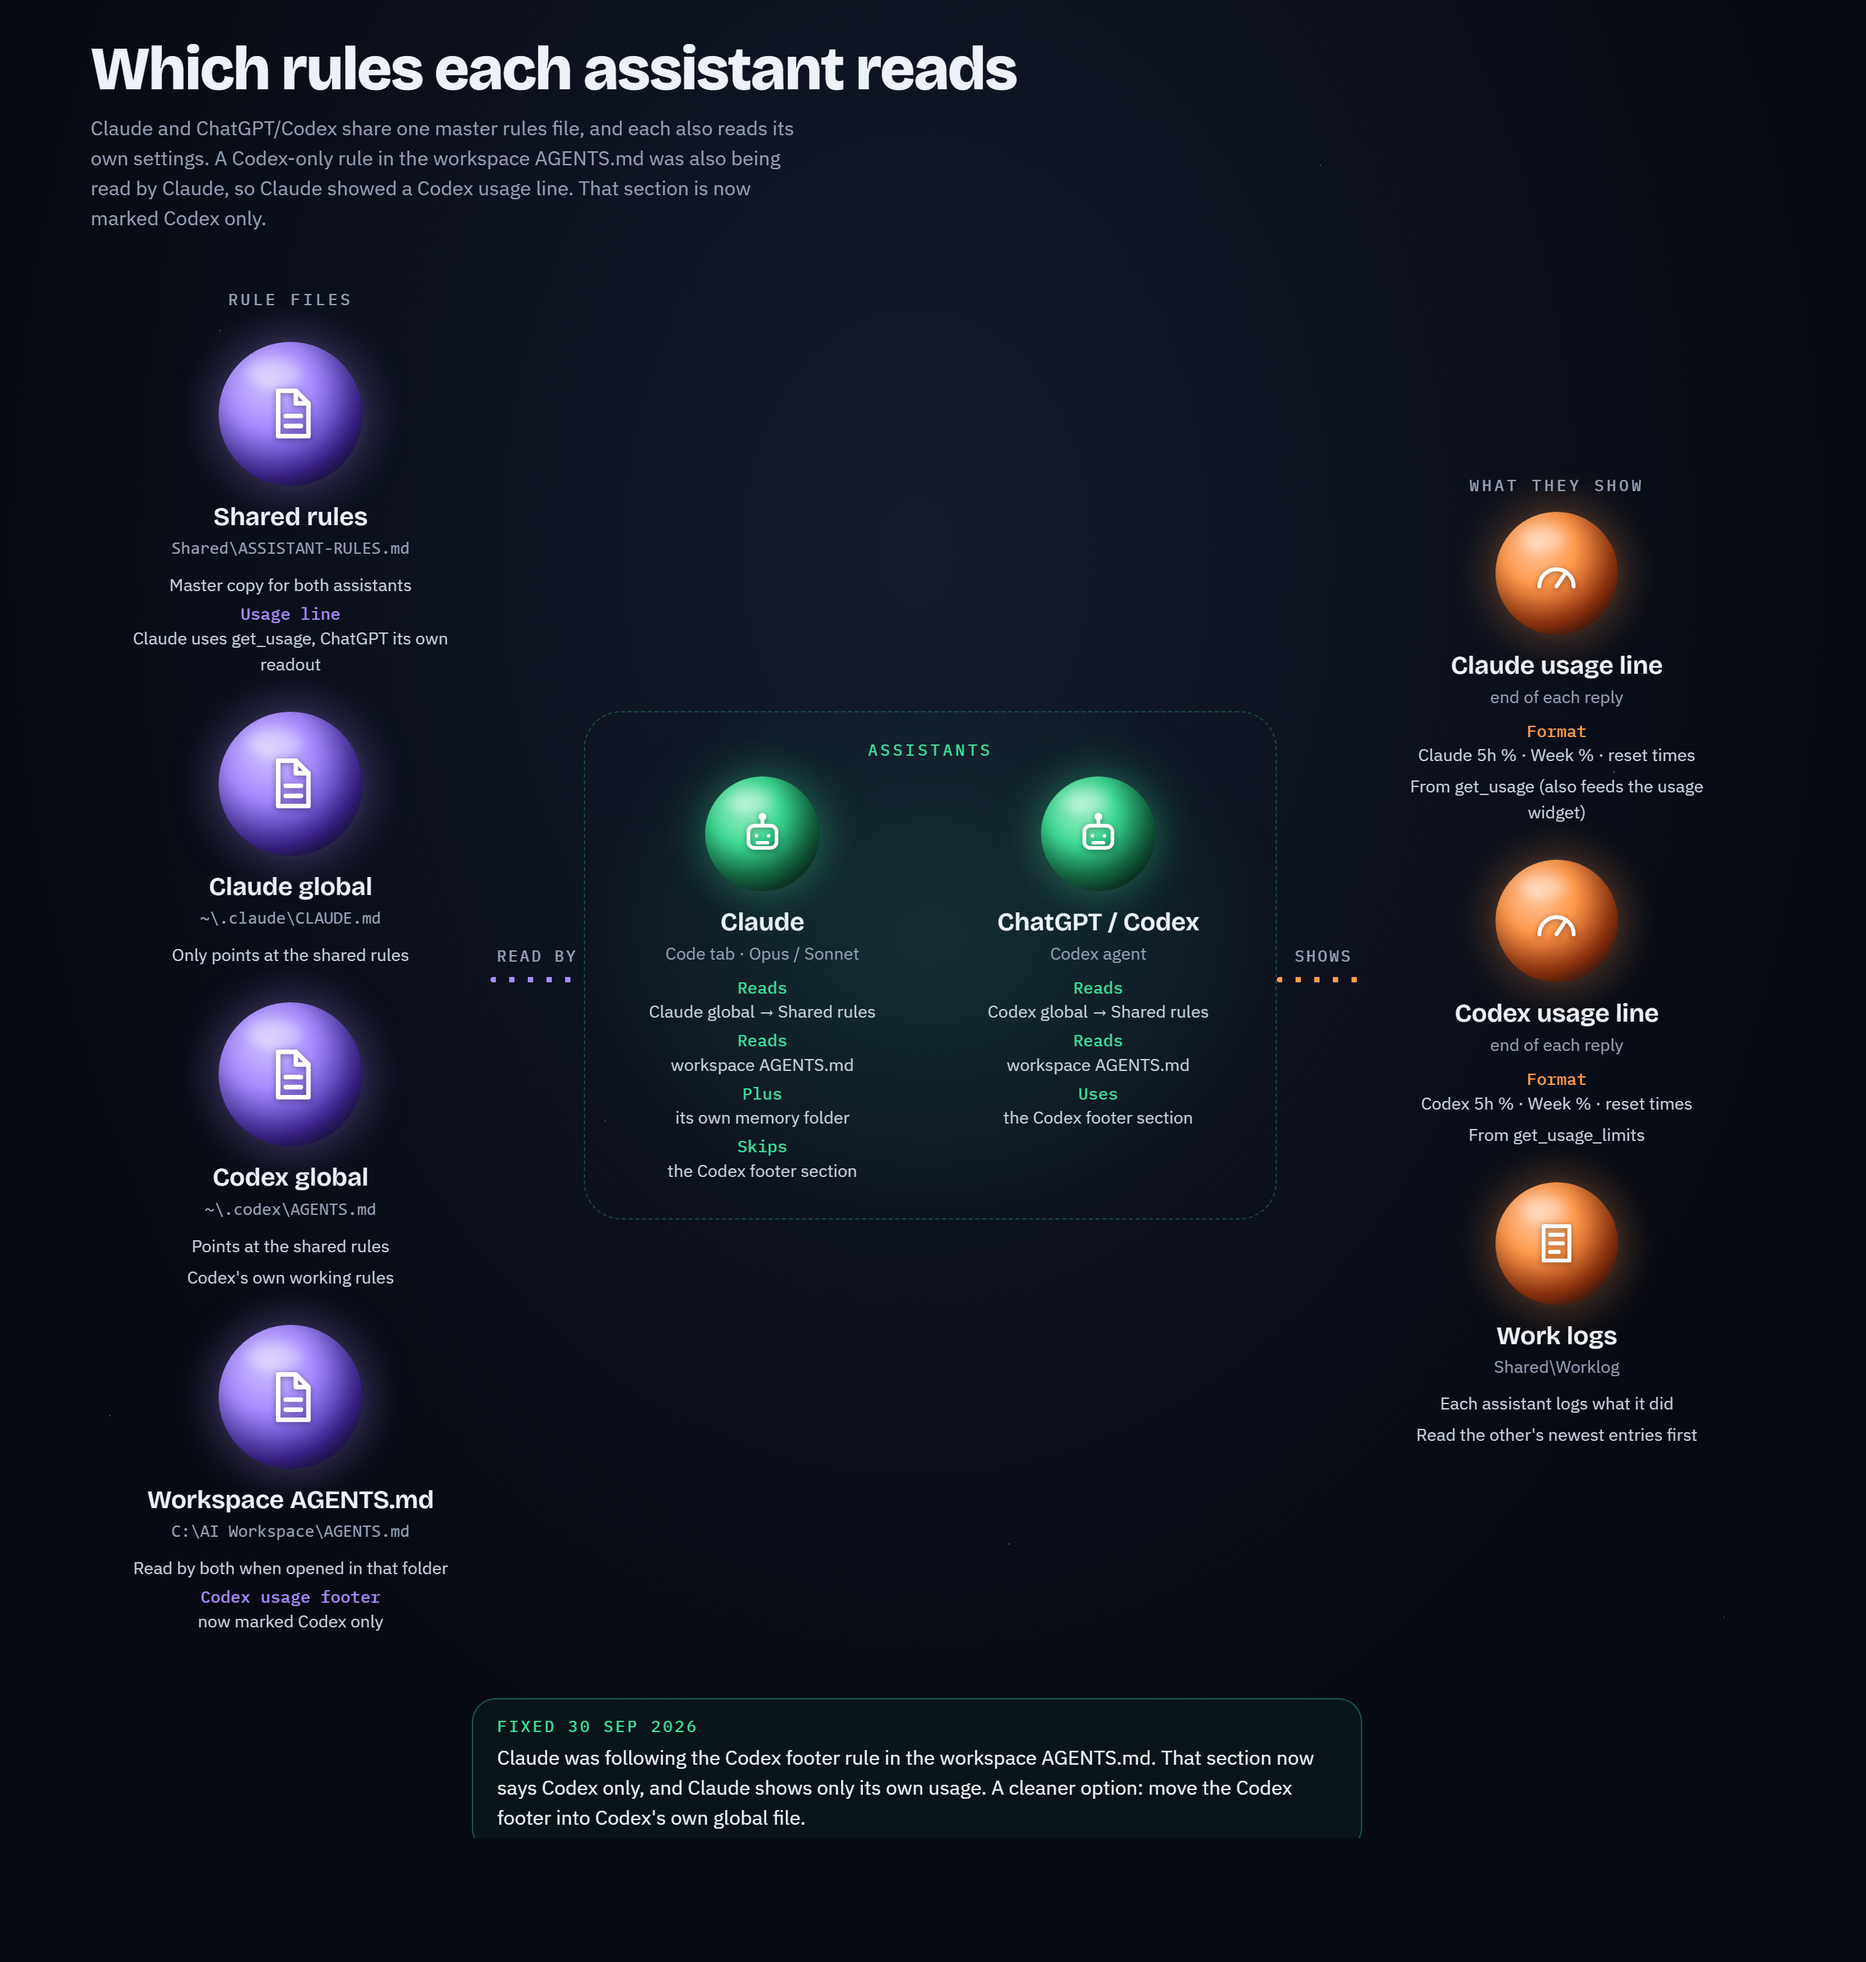
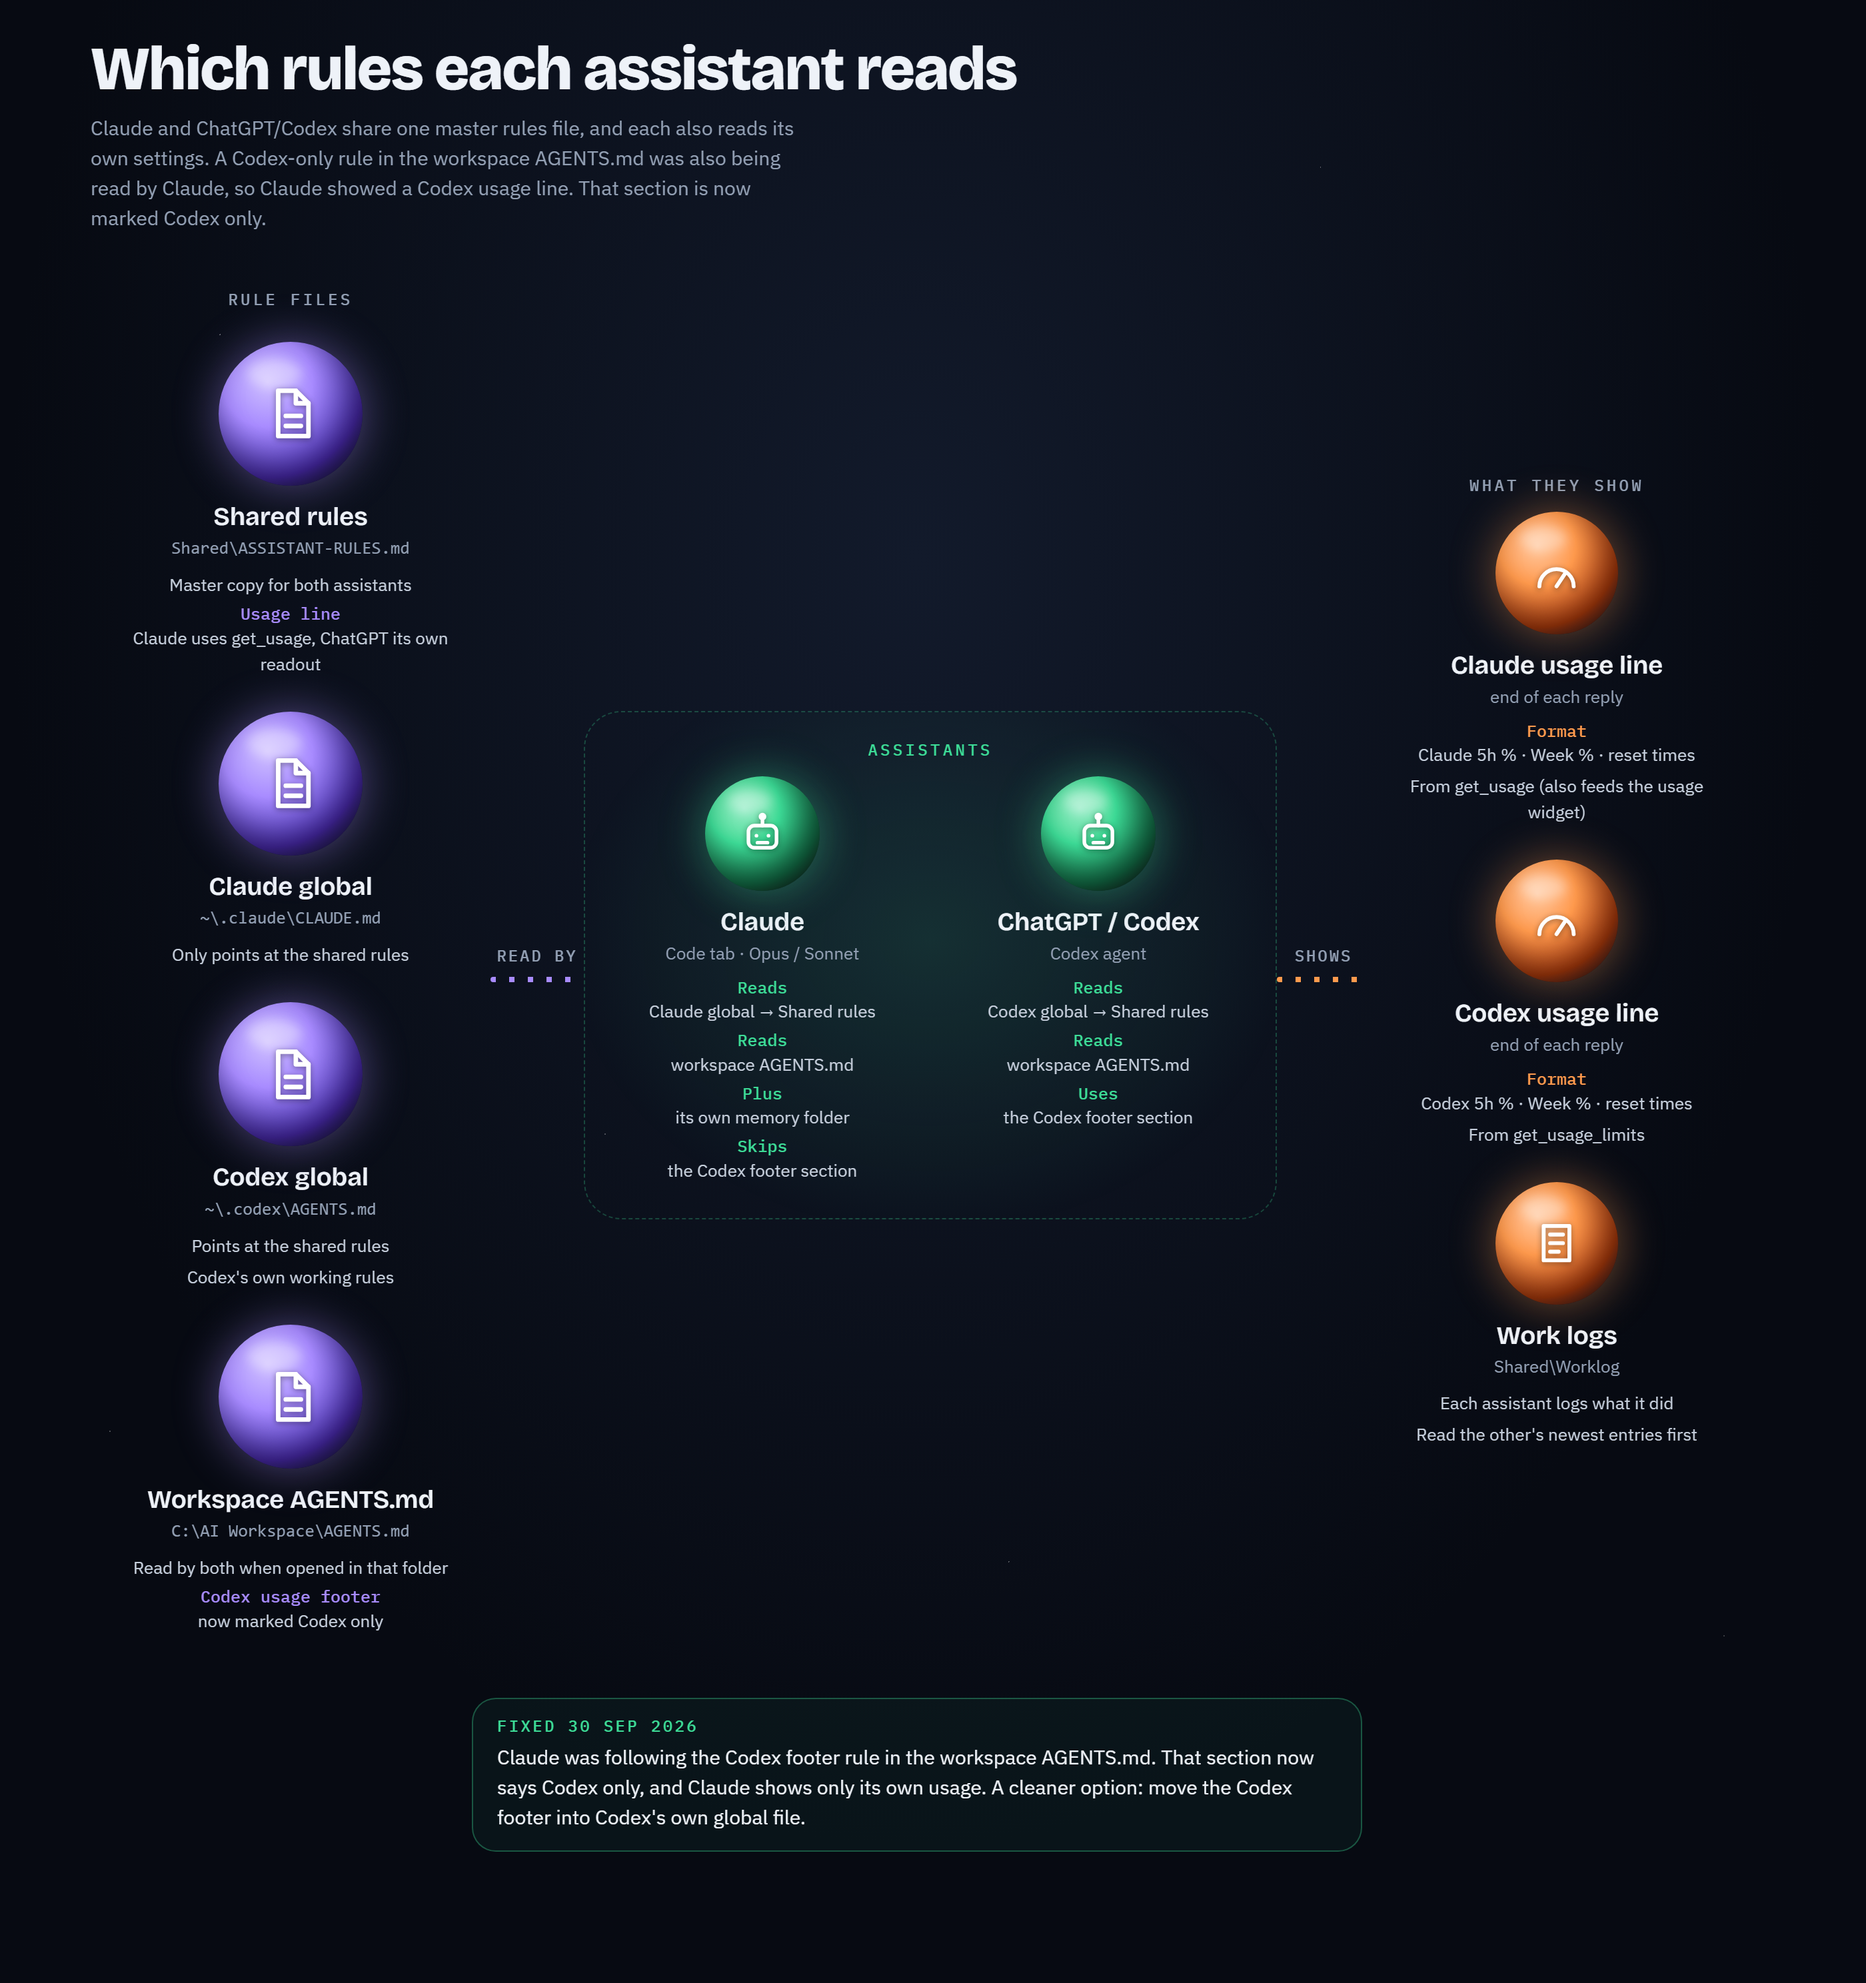
Obsidian canvas embeds the live page (PNG kept as offline copy); fix snapshot crop

diff --git a/tools/snapshot_obsidian.py b/tools/snapshot_obsidian.py
@@ -1,4 +1,4 @@
-"""Makes the Obsidian copy of a diagram: a 2x snapshot of its desktop page, shown on a canvas with a link to the live page.
+"""Makes the Obsidian copy of a diagram: a canvas that embeds the live desktop page, plus a PNG snapshot as the offline copy.
 Usage: python tools/snapshot_obsidian.py <folder-name> "<Obsidian title>"
   e.g. python tools/snapshot_obsidian.py assistant-rules "Assistant rules"
 Writes Shared\\Maps\\<title>.png + .canvas (home PC vault) and diagrams/<folder>/<folder>.png + .canvas (repo vault).
@@ -8,6 +8,7 @@ REPO = pathlib.Path(__file__).resolve().parents[1]
 MAPS = pathlib.Path(r"C:\AI Workspace\Shared\Maps")
 EDGE = r"C:\Program Files (x86)\Microsoft\Edge\Application\msedge.exe"
 WIDTH = 1400                                                            # desktop layout (zones side by side)
+SCALE = 2                                                               # crisp offline PNG
 
 def shoot(url, out, height, scale):
     subprocess.run([EDGE, "--headless=new", "--disable-gpu", "--hide-scrollbars", f"--force-device-scale-factor={scale}",
@@ -16,7 +17,7 @@ def shoot(url, out, height, scale):
 def content_bottom(png):
     """Last row (in CSS px) that has bright pixels, via System.Drawing so nothing needs installing."""
     ps = f"""Add-Type -AssemblyName System.Drawing; $b=[Drawing.Bitmap]::FromFile('{png}'); $last=0
-for($y=0;$y -lt $b.Height;$y+=4){{ $n=0; for($x=0;$x -lt $b.Width;$x+=5){{ $c=$b.GetPixel($x,$y); if(($c.R+$c.G+$c.B) -gt 330){{$n++}} }}; if($n -ge 3){{$last=$y}} }}
+for($y=0;$y -lt $b.Height;$y+=4){{ $n=0; for($x=0;$x -lt $b.Width;$x+=5){{ $c=$b.GetPixel($x,$y); if(($c.R+$c.G+$c.B) -gt 230){{$n++}} }}; if($n -ge 3){{$last=$y}} }}
 $b.Dispose(); $last"""
     return int(subprocess.run(["powershell", "-NoProfile", "-Command", ps], capture_output=True, text=True, check=True).stdout.strip())
 
@@ -24,13 +25,16 @@ def main(name, title):
     page = REPO / "diagrams" / name / "index.html"
     with tempfile.TemporaryDirectory() as t:
         probe = pathlib.Path(t) / "probe.png"; shoot(page.as_uri(), probe, 4000, 1)
-        height = content_bottom(probe) + 48
-    png = MAPS / f"{title}.png"; shoot(page.as_uri(), png, height, 2)
+        height = content_bottom(probe) + 64
+    png = MAPS / f"{title}.png"; shoot(page.as_uri(), png, height, SCALE)
     shutil.copyfile(png, page.parent / f"{name}.png")
     live = f"https://mindfreez.github.io/ai-diagrams/diagrams/{name}/"
+    # The canvas shows the live page itself (a web embed: same look and animation as GitHub Pages, desktop width).
+    # The PNG is the offline copy; Obsidian's canvas mis-draws large images on this PC's GPU, so it isn't the main view.
     canvas = lambda file: json.dumps({"nodes": [
-        {"id": "map", "type": "file", "file": file, "x": 0, "y": 0, "width": WIDTH, "height": height},
-        {"id": "live", "type": "link", "url": live, "x": 0, "y": height + 40, "width": WIDTH, "height": 80}], "edges": []}, indent=1)
+        {"id": "live", "type": "link", "url": live, "x": 0, "y": 0, "width": WIDTH, "height": height},
+        {"id": "offline", "type": "text", "x": 0, "y": height + 40, "width": WIDTH, "height": 60,
+         "text": f"Offline copy: [[{file}]] · live page: {live}"}], "edges": []}, indent=1)
     (MAPS / f"{title}.canvas").write_text(canvas(f"Maps/{title}.png"), encoding="utf-8")
     (page.parent / f"{name}.canvas").write_text(canvas(f"diagrams/{name}/{name}.png"), encoding="utf-8")
     print(f"snapshot {WIDTH}x{height} -> {png}")
